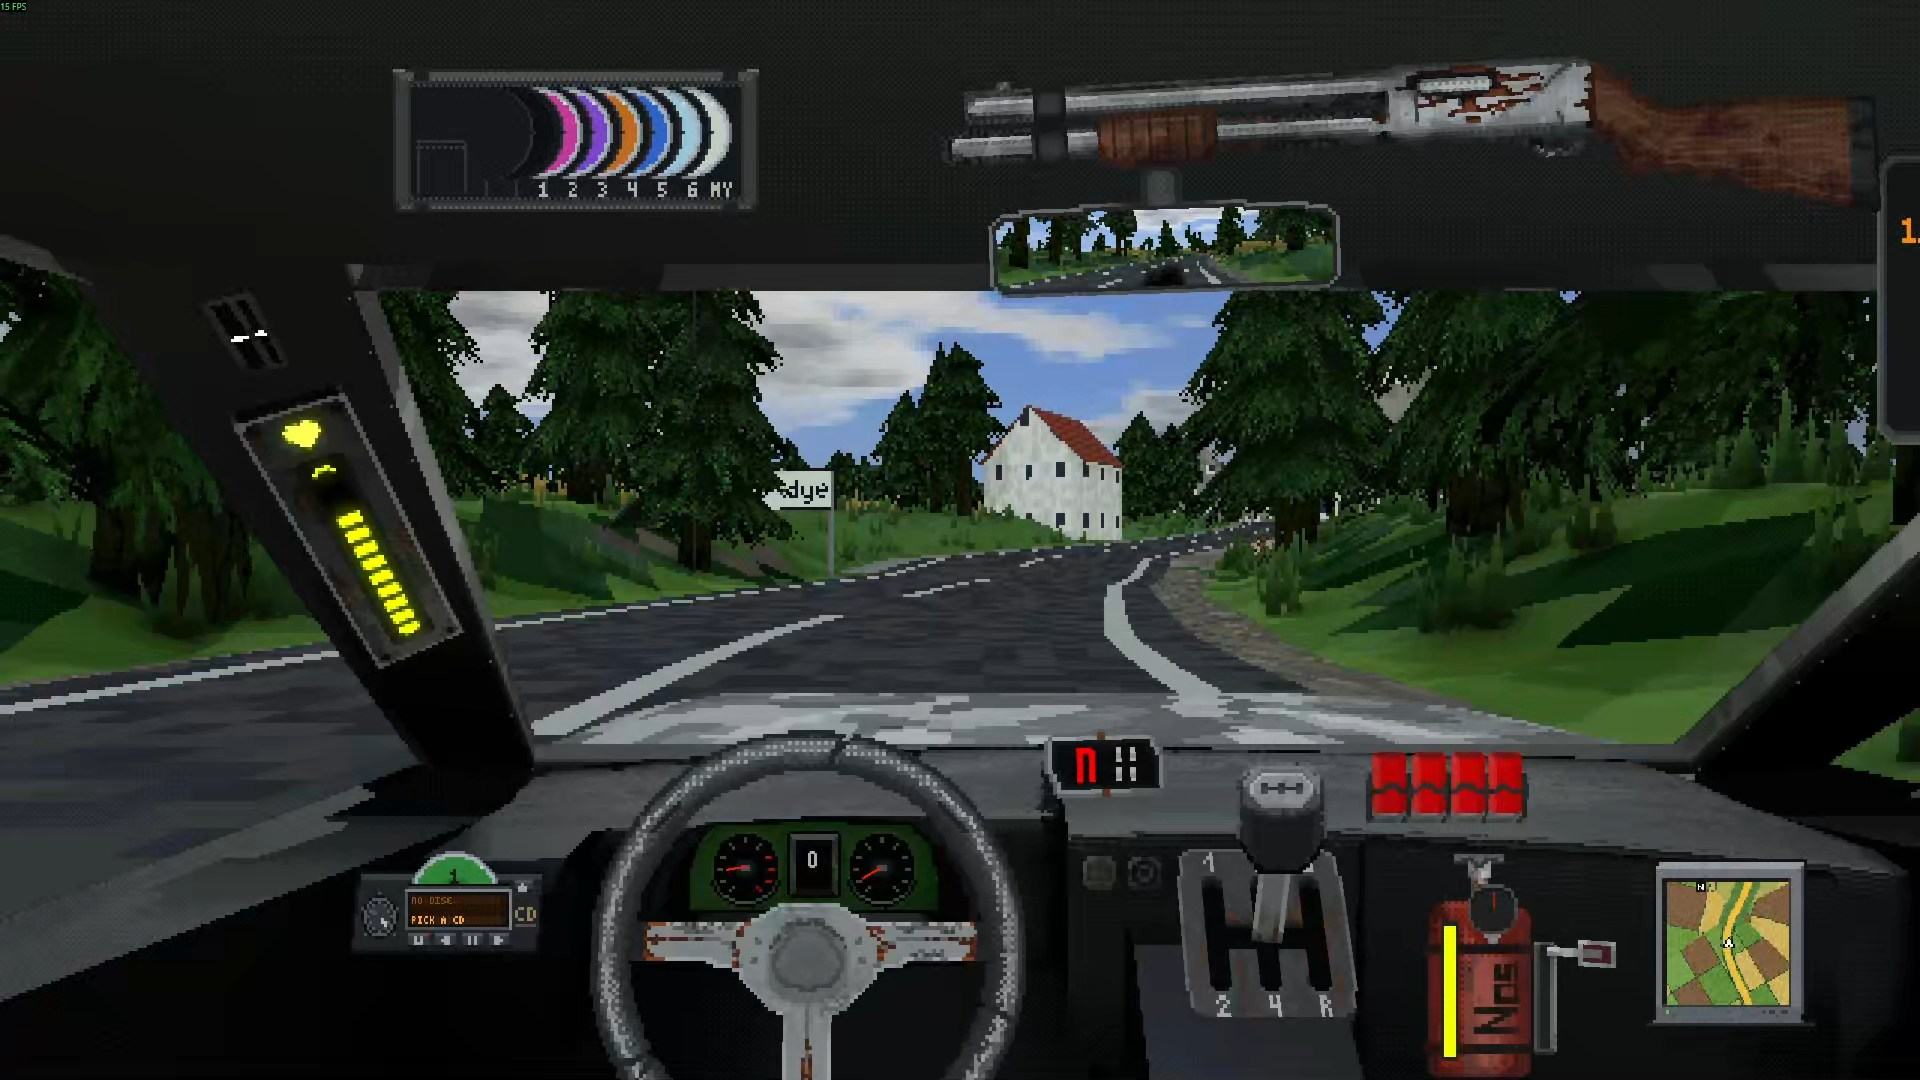
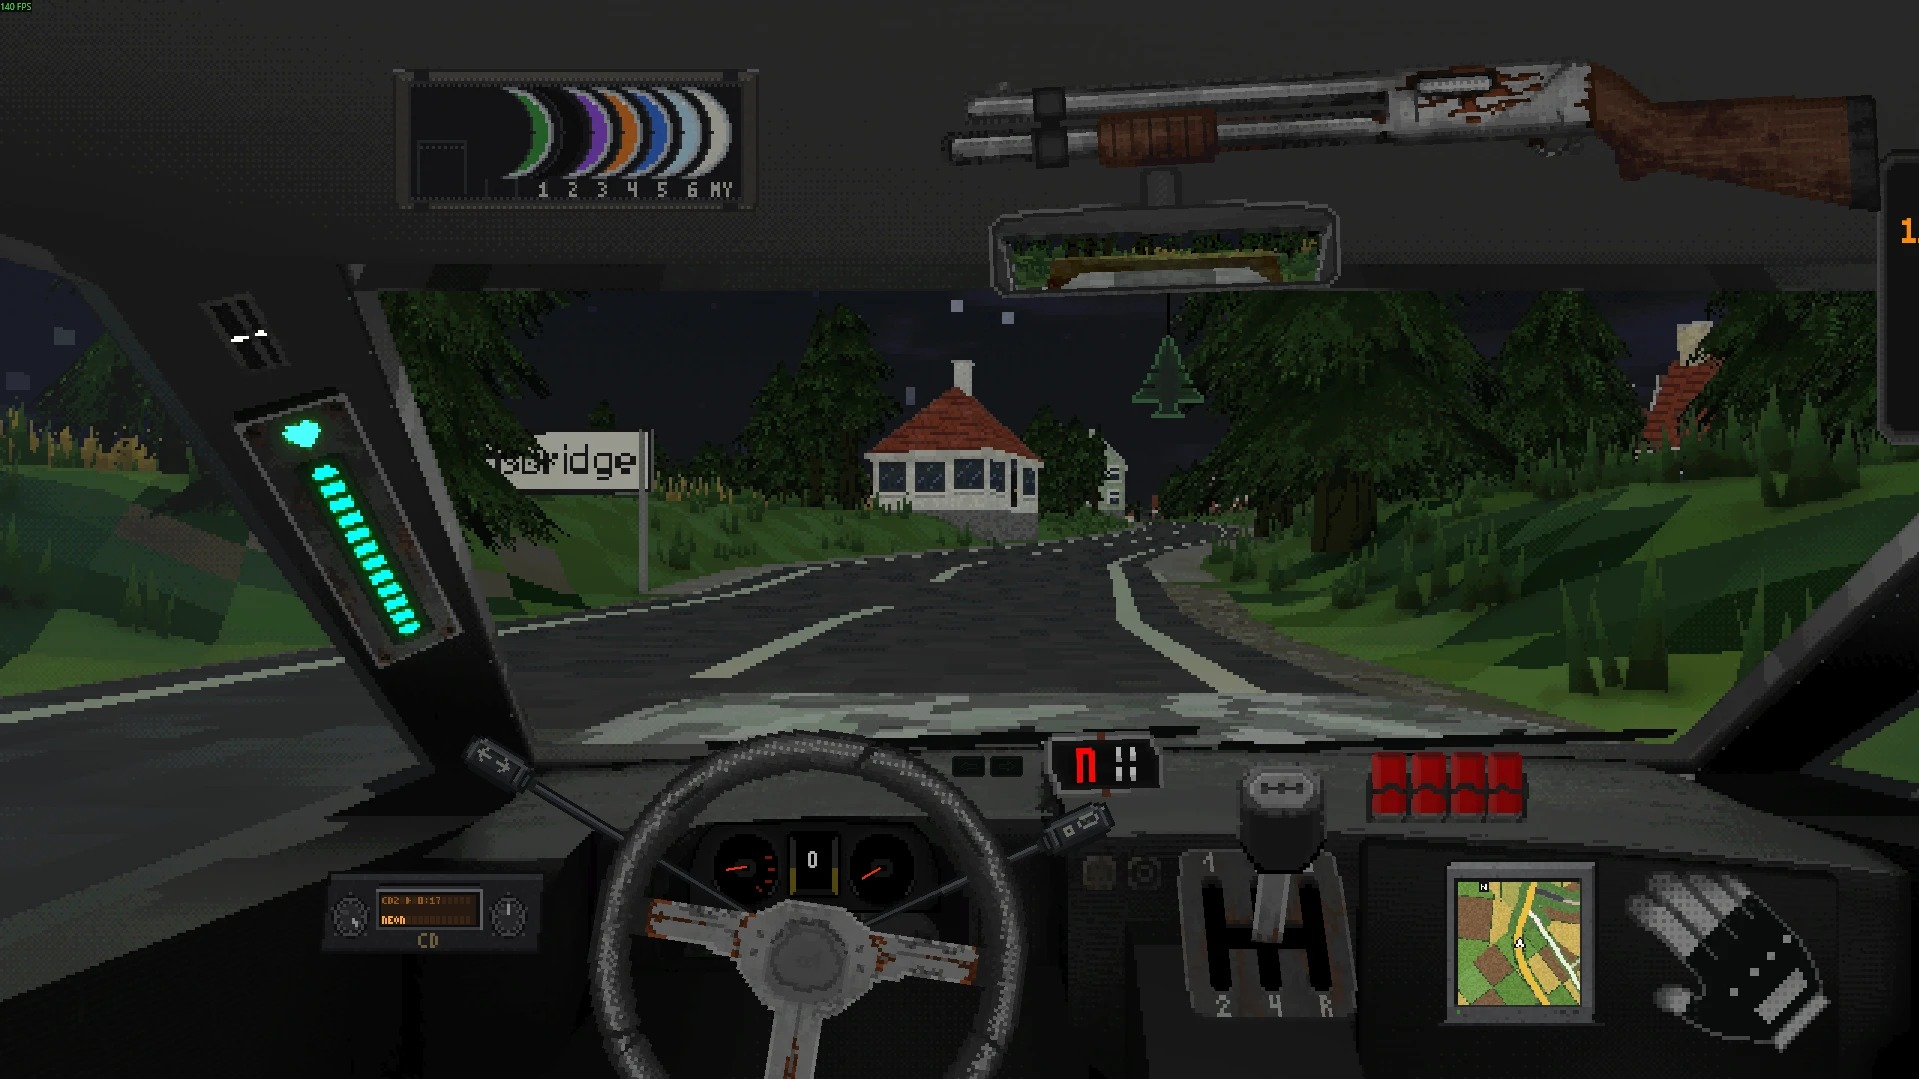
README: the owner's in-game screenshot of 0.3.0
Claude-Session: https://claude.ai/code/session_011prJR79tXmA11nMbfGX6Xo

diff --git a/CLAUDE.md b/CLAUDE.md
@@ -143,7 +143,7 @@ build once against the refs).
   ```
 - Pictures: `dotnet run -c Release --project tools/preview -p:Refs=<halfgriprefs> -- <out dir>` writes `unit.png`/`visor.png` (one
   pixel per cockpit pixel, for laying over a screenshot at ~4.3x on 1080p), `unit-4x.png`, `visor-4x.png`, `unit-face-4x.png` / `unit-face-disc-4x.png` (on its `Face` as the game builds it, a disc half out in the second; the vanishing point in cockpit px from the face's corner as the optional 2nd and 3rd arguments, default 201 137, then `Stereo.Lean`, default 3; copy the second to `docs/unit-face.png`), `unit-flat-4x.png` (`Stereo.Lean` 0), `disc-4x.png`, `icon.png` (copy to
-  `Stereo/icon.png`). `docs/screenshot.jpg` is the README's picture: the owner's own in-game screenshot of 0.2.3 (Forest).
+  `Stereo/icon.png`). `docs/screenshot.jpg` is the README's picture: the owner's own in-game screenshot of 0.3.0 (night, two knobs, the wallet).
 - Game code: `DOTNET_ROLL_FORWARD=Major ilspycmd -p -o <dir> <refs>/game/HalfGrip_Data/Managed/Assembly-CSharp.dll`.
 - In game (the owner tests): copy `Stereo/` to `<game>\BepInEx\HalfGripMods\`, `Debug.VerboseLog=true`, read `BepInEx\LogOutput.log`
   (look for `found the song`, `same song as`, `put in the cockpit`, `head unit at`, `CD wallet with`, `the race starts`).
@@ -201,4 +201,8 @@ build once against the refs).
 - **Release workflow** (`.github/workflows/release.yml`, owner's ask): Actions -> Release -> Run workflow on `main`; version from
   `Stereo/mod.json`, fails if the README's `**Version x**` differs or tag `v<version>` exists; zips `Stereo/` as `Stereo-v<version>.zip`,
   tags, makes the release (generated notes, optional pre-release). Can't compile (no game DLLs in CI). Not run yet (no tags exist).
-- **Next step:** the owner tests 0.3.0 in game and merges the PR.
+- **0.3.0 merged** (PR #5). **Owner's in-game screenshot of 0.3.0** (1080p, night map): the two-knob radio left of the wheel with
+  `CD2 / NEON` on the display, clear of the wheel, the wallet on the visor; the owner made it the README's picture (`docs/screenshot.jpg`,
+  converted from their webp), so the 0.3.0 look and the `OffsetX` 0.4 place are accepted. New PR for it from `main`
+  (branch `claude/zen-ptolemy-tarels` restarted on `origin/main`).
+- **Next step:** the owner merges the screenshot PR and runs the Release workflow for v0.3.0.
